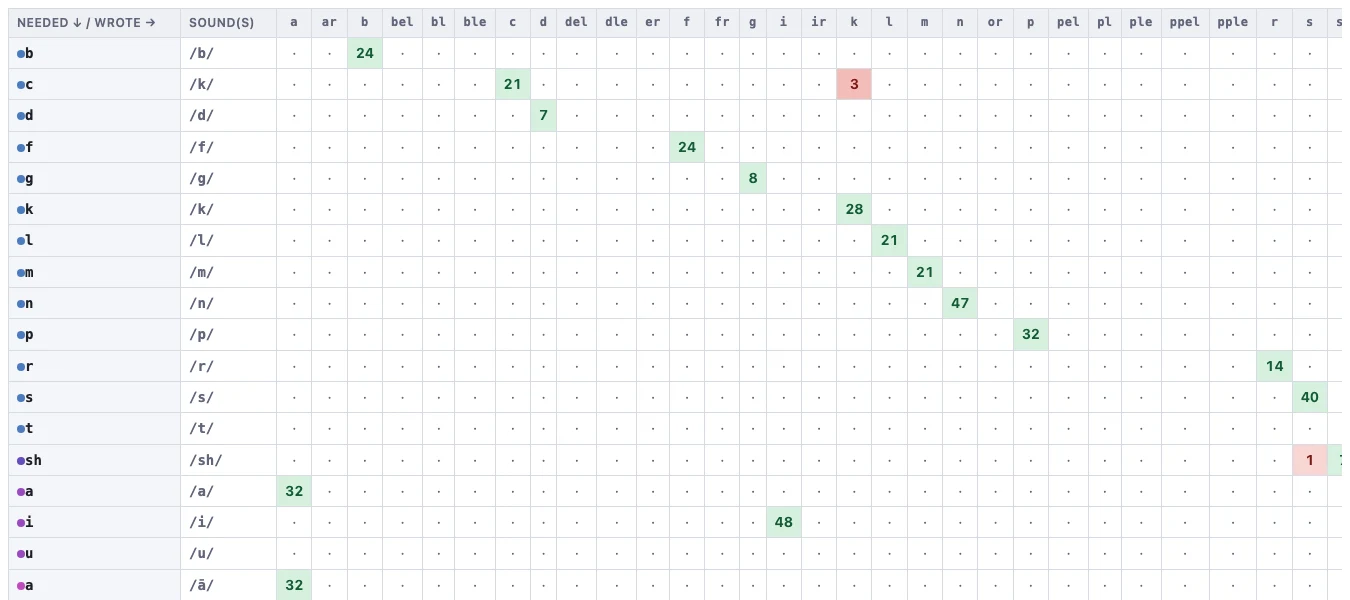
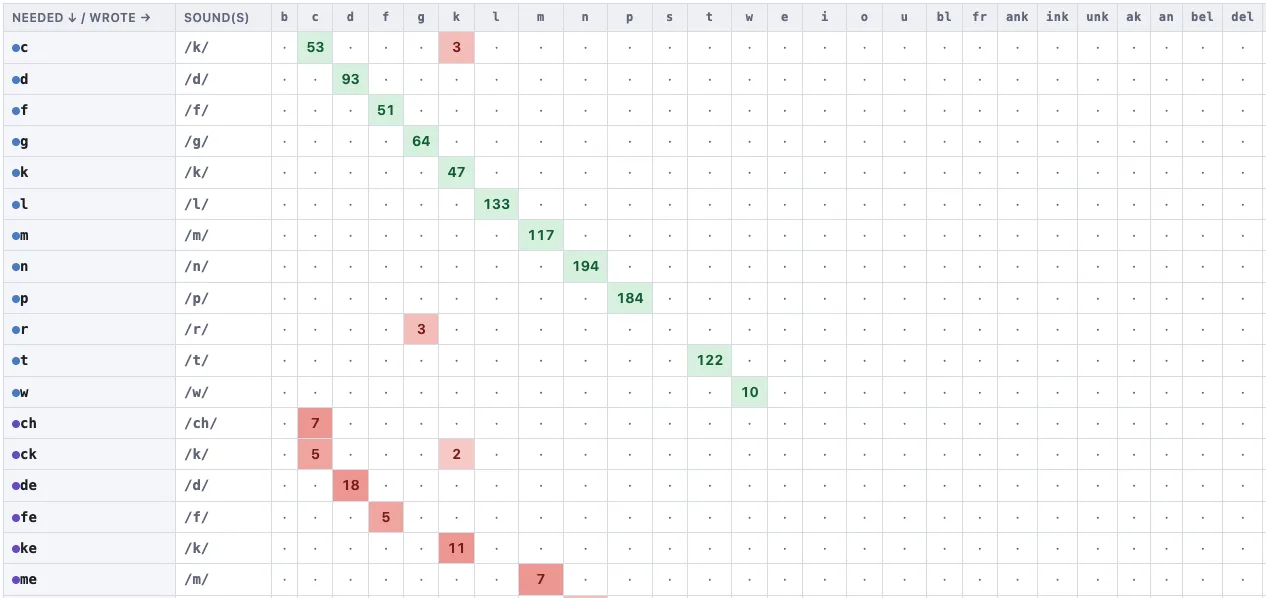
Fix the confusion sheets' axes and make the toggle work
"Hide empty rows and columns" could not hide a column. Columns were
built from the spellings students actually wrote, so a column existed
precisely because someone had written in it — the filter was provably
dead, and the control looked broken.

The same gap cost the sheet its diagonal. A target nobody spelled
correctly had no column to be correct in, and the columns that did exist
were in alphabetical order against rows in teaching order, so the
correct answers scattered instead of running down the grid. Every target
now gets a column of its own, in the row order, so a row meets its own
column.

"Empty" was also the wrong test. Almost nothing is ever empty, because a
spelling written correctly lands on the diagonal: on a term of tests
that left 71 rows by 83 columns standing with nothing hidden, when only
58 rows and 38 columns were involved in a confusion at all. The toggle
now hides rows and columns with no confusions, which is what the sheet
is for, and says so.

The phoneme confusion sheet had the same shape and the same two faults,
so it takes the same fix.

diff --git a/src/reports/confusionAxes.test.ts b/src/reports/confusionAxes.test.ts
@@ -1,0 +1,114 @@
+import { describe, expect, it } from 'vitest'
+import { confusionColumns, trimToConfusions } from './confusionAxes'
+
+const NONE = '∅'
+
+/**
+ * These exist because "hide empty rows and columns" was reported as doing
+ * nothing on the grapheme confusion sheet. It was not a broken checkbox: the
+ * columns were built from what students wrote, so a column existed exactly when
+ * someone had written in it and none could ever be empty. The same gap left
+ * targets nobody spelled correctly with no column to be correct in, so there
+ * was no complete diagonal to show.
+ */
+
+describe('building the column axis', () => {
+  it('gives every target a column, including ones nobody wrote', () => {
+    // "ck" was never written by anyone. Without a column it has no diagonal
+    // cell, and the row cannot show a correct answer even in principle.
+    const cols = confusionColumns(['ai', 'ck', 'sh'], ['ai', 'sh', 'k'], NONE)
+    expect(cols).toContain('ck')
+  })
+
+  it('orders columns to match the rows, so the diagonal runs diagonally', () => {
+    // Alphabetical columns against teaching-order rows scatter the correct
+    // answers; this is what makes them line up.
+    const cols = confusionColumns(['sh', 'ai', 'ck'], ['ai', 'ck', 'sh'], NONE)
+    expect(cols.slice(0, 3)).toEqual(['sh', 'ai', 'ck'])
+  })
+
+  it('puts spellings that were never a target after the targets', () => {
+    const cols = confusionColumns(['ai'], ['ai', 'zz'], NONE)
+    expect(cols).toEqual(['ai', 'zz', NONE])
+  })
+
+  it('keeps "nothing written" last and only once', () => {
+    const cols = confusionColumns(['ai'], [NONE, 'a', NONE], NONE)
+    expect(cols).toEqual(['ai', 'a', NONE])
+    expect(cols.filter((c) => c === NONE)).toHaveLength(1)
+  })
+
+  it('never repeats a column when a spelling is both target and written', () => {
+    const cols = confusionColumns(['ai', 'ai'], ['ai'], NONE)
+    expect(cols).toEqual(['ai', NONE])
+  })
+})
+
+describe('trimming to what was actually confused', () => {
+  /*
+   *        sh   ck   s    ∅        "sh" was written as "s" twice and left
+   *   sh    4    .   2    .        blank once; "ck" was always right; "ai"
+   *   ck    .    3   .    .        never came up at all.
+   *   ai    .    .   .    .
+   */
+  const rows = ['sh', 'ck', 'ai']
+  const cols = ['sh', 'ck', 's', NONE]
+  const counts: Record<string, Record<string, number>> = {
+    sh: { sh: 4, s: 2, [NONE]: 1 },
+    ck: { ck: 3 },
+  }
+  const count = (r: string, c: string) => counts[r]?.[c] ?? 0
+  const isDiagonal = (r: string, c: string) => r === c
+  const trim = () => trimToConfusions(rows, cols, count, isDiagonal)
+
+  it('keeps only the rows that were confused with something', () => {
+    // "ck" was spelled correctly three times and never wrongly. That is a
+    // diagonal entry, not a confusion, so the row has nothing to show.
+    expect(trim().rows).toEqual(['sh'])
+  })
+
+  it('keeps only the columns something landed in wrongly', () => {
+    // This is the regression. Counting any entry at all kept every column
+    // alive on the strength of its own diagonal, so ticking the box changed
+    // nothing and the control looked broken.
+    expect(trim().cols).toEqual(['s', NONE])
+  })
+
+  it('does not let a diagonal entry hold a row or column up', () => {
+    const allCorrect = (r: string, c: string) => (r === c ? 5 : 0)
+    const trimmed = trimToConfusions(rows, cols, allCorrect, isDiagonal)
+    expect(trimmed.rows).toEqual([])
+    expect(trimmed.cols).toEqual([])
+  })
+
+  it('counts a blank as a confusion, since writing nothing is an error', () => {
+    expect(trim().cols).toContain(NONE)
+  })
+
+  it('leaves the full axes alone, so the complete grid is still reachable', () => {
+    trim()
+    expect(rows).toEqual(['sh', 'ck', 'ai'])
+    expect(cols).toEqual(['sh', 'ck', 's', NONE])
+  })
+})
+
+describe('the two together, as the sheet uses them', () => {
+  it('shows a complete diagonal untrimmed, and only the errors trimmed', () => {
+    const targets = ['sh', 'ck', 'ai']
+    const written = ['s', 'sh', 'a']
+    const counts: Record<string, Record<string, number>> = {
+      sh: { sh: 4, s: 2 },
+      ck: { ck: 3 },
+      ai: { a: 1 },
+    }
+    const count = (r: string, c: string) => counts[r]?.[c] ?? 0
+
+    const cols = confusionColumns(targets, written, NONE)
+    // Untrimmed, every row can meet its own column: that is the diagonal.
+    for (const t of targets) expect(cols).toContain(t)
+
+    const trimmed = trimToConfusions(targets, cols, count, (r, c) => r === c)
+    expect(trimmed.rows).toEqual(['sh', 'ai'])
+    expect(trimmed.cols).toEqual(['s', 'a'])
+  })
+})

diff --git a/src/pages/ReportGraphemeConfusion.tsx b/src/pages/ReportGraphemeConfusion.tsx
@@ -4,7 +4,8 @@ import { useStore } from '../state/store'
 import { useStudentNames } from '../state/names'
 import { useSelectedTests } from '../state/useSelectedTests'
 import { TestPicker } from '../components/TestPicker'
-import { buildReportsAcross, CLASS, getGraphemeConfusion, NONE } from '../reports/aggregate'
+import { buildReportsAcross, CLASS, getGraphemeConfusion, NONE, type GraphemeRow } from '../reports/aggregate'
+import { confusionColumns, trimToConfusions } from '../reports/confusionAxes'
 import { displayList } from '../data/phonemes'
 import { category } from '../data/categories'
 import { CategoryDot } from '../components/CategoryTag'
@@ -31,16 +32,34 @@ export function ReportGraphemeConfusion() {
     [project, scope.sources],
   )
   const [who, setWho] = useState<string>(CLASS)
-  const [hideEmpty, setHideEmpty] = useState(true)
+  /** Ticked, the sheet shows only the substitutions; unticked, the whole grid. */
+  const [onlyConfusions, setOnlyConfusions] = useState(true)
   const [drill, setDrill] = useState<Drill | null>(null)
 
-  const rowTotal = (key: string) =>
-    reports.writtenSpellings.reduce((sum, s) => sum + getGraphemeConfusion(reports, who, key, s), 0)
-  const colTotal = (written: string) =>
-    reports.graphemes.reduce((sum, g) => sum + getGraphemeConfusion(reports, who, g.key, written), 0)
+  /*
+   * Every target spelling gets a column, in the row order, so each row meets
+   * its own column and the correct answers run down the diagonal. Columns used
+   * to be only what students actually wrote, which left a target nobody spelled
+   * correctly with nowhere to be correct, and meant no column could ever be
+   * empty for the toggle below to hide.
+   */
+  const allCols = useMemo(
+    () =>
+      confusionColumns(
+        reports.graphemes.map((g) => g.letters),
+        reports.writtenSpellings,
+        NONE,
+      ),
+    [reports],
+  )
 
-  const rows = hideEmpty ? reports.graphemes.filter((g) => rowTotal(g.key) > 0) : reports.graphemes
-  const cols = hideEmpty ? reports.writtenSpellings.filter((s) => colTotal(s) > 0) : reports.writtenSpellings
+  const { rows, cols } = useMemo(() => {
+    const count = (g: GraphemeRow, c: string) => getGraphemeConfusion(reports, who, g.key, c)
+    const isDiagonal = (g: GraphemeRow, c: string) => c === g.letters
+    return onlyConfusions
+      ? trimToConfusions(reports.graphemes, allCols, count, isDiagonal)
+      : { rows: reports.graphemes, cols: allCols }
+  }, [reports, allCols, onlyConfusions, who])
 
   // One label for this view, used in the heading, the file name and the printout.
   const whoName = who === CLASS ? 'Whole class' : names(who)
@@ -92,7 +111,8 @@ export function ReportGraphemeConfusion() {
       <p className="hint">
         Rows are the spelling the word needed; columns are what the student actually wrote. The
         shaded diagonal is correct. Everything off it is a specific substitution to teach against —{' '}
-        {NONE} means nothing was written for that unit at all.
+        {NONE} means nothing was written for that unit at all. Untick the box below to see every
+        spelling, right or wrong, with the correct answers running down the diagonal.
       </p>
 
       <div className="group no-print" style={{ marginBottom: 12, display: 'flex', gap: 8, flexWrap: 'wrap' }}>
@@ -108,8 +128,14 @@ export function ReportGraphemeConfusion() {
           </select>
         </label>
         <label className="check">
-          <input type="checkbox" checked={hideEmpty} onChange={(e) => setHideEmpty(e.target.checked)} />
-          Hide empty rows and columns
+          <input
+            type="checkbox"
+            checked={onlyConfusions}
+            onChange={(e) => setOnlyConfusions(e.target.checked)}
+          />
+          <span title="Unticked, every spelling gets a row and a column of its own, so the correct answers run down the diagonal">
+            Hide rows and columns with no confusions
+          </span>
         </label>
         <span className="spacer" />
         <button className="btn" onClick={exportCsv}>

diff --git a/src/reports/confusionAxes.ts b/src/reports/confusionAxes.ts
@@ -1,0 +1,76 @@
+/**
+ * The axes of a confusion matrix.
+ *
+ * A grid of targets against what was written only reads as a confusion matrix
+ * when a row can meet its own column: the correct answers then run down the
+ * diagonal, and everything off it is a substitution to teach against.
+ *
+ * That needs the column axis to carry every target, not only the ones somebody
+ * happened to write. Building it from what was written instead has two
+ * consequences, and the grapheme sheet had both: a target nobody spelled
+ * correctly has no column, so its row never meets a diagonal; and no column can
+ * ever be empty, because a column exists precisely when someone wrote in it —
+ * which quietly made "hide empty rows and columns" unable to hide a column.
+ */
+
+/**
+ * Columns for a confusion matrix: every target in row order, then anything
+ * written that was never a target, then the "nothing written" column.
+ *
+ * Row order rather than alphabetical, so a row meets its own column as the eye
+ * travels down the grid instead of the correct answers scattering.
+ *
+ * @param targets what each row was asking for, in the order the rows appear
+ * @param written what students actually produced
+ * @param none the column standing for nothing written at all
+ */
+export function confusionColumns(
+  targets: readonly string[],
+  written: readonly string[],
+  none: string,
+): string[] {
+  const cols: string[] = []
+  const seen = new Set<string>()
+
+  const add = (c: string) => {
+    // `none` is appended at the end whether or not it appears in either list;
+    // it is not a spelling, so it does not belong among them.
+    if (c === '' || c === none || seen.has(c)) return
+    seen.add(c)
+    cols.push(c)
+  }
+
+  for (const t of targets) add(t)
+  for (const w of written) add(w)
+
+  return [...cols, none]
+}
+
+/**
+ * The rows and columns that take part in at least one confusion.
+ *
+ * "Empty" is the wrong test, and testing for it is why the toggle looked
+ * broken: almost every row and column holds *something*, because a spelling
+ * that was written correctly lands on the diagonal. On a term of tests that
+ * left 71 rows by 82 columns standing with nothing hidden, when only 58 rows
+ * and 38 columns were involved in a confusion at all.
+ *
+ * The diagonal is not a confusion, so it does not keep a row or a column alive
+ * here. What is left is the substitutions — the thing the sheet is for. The
+ * complete grid, diagonal and all, is what the toggle turns back on.
+ */
+export function trimToConfusions<R>(
+  rows: readonly R[],
+  cols: readonly string[],
+  count: (row: R, col: string) => number,
+  isDiagonal: (row: R, col: string) => boolean,
+): { rows: R[]; cols: string[] } {
+  const confused = (row: R, col: string) => !isDiagonal(row, col) && count(row, col) > 0
+
+  return {
+    rows: rows.filter((r) => cols.some((c) => confused(r, c))),
+    // Measured against every row, not just the kept ones: a dropped row has no
+    // confusions anywhere, so it cannot be holding a column up.
+    cols: cols.filter((c) => rows.some((r) => confused(r, c))),
+  }
+}

diff --git a/src/pages/ReportConfusion.tsx b/src/pages/ReportConfusion.tsx
@@ -10,6 +10,7 @@ import { toCsv } from '../export/csv'
 import { useDownloads } from '../components/DownloadProvider'
 import { useFileName } from '../state/filename'
 import { OccurrenceModal } from '../components/OccurrenceModal'
+import { confusionColumns, trimToConfusions } from '../reports/confusionAxes'
 import type { Drill } from '../reports/occurrences'
 
 /**
@@ -30,19 +31,33 @@ export function ReportConfusion() {
     [project, scope.sources],
   )
   const [who, setWho] = useState<string>(CLASS)
-  const [hideEmpty, setHideEmpty] = useState(true)
+  /** Ticked, the sheet shows only the swaps; unticked, the whole grid. */
+  const [onlyConfusions, setOnlyConfusions] = useState(true)
   const [drill, setDrill] = useState<Drill | null>(null)
 
   const label = (id: string) => (id === NONE ? NONE : display(id as PhonemeId, notation))
 
   const allRows: string[] = [...reports.phonemes, NONE]
-  const allCols: string[] = [...reports.producedPhonemes, NONE]
+  // Every target sound gets a column too, not only the ones somebody produced,
+  // so a row can always meet its own column on the diagonal.
+  const allCols: string[] = useMemo(
+    () => confusionColumns(reports.phonemes, reports.producedPhonemes, NONE),
+    [reports],
+  )
 
-  const rowTotal = (r: string) => allCols.reduce((sum, c) => sum + getConfusion(reports, who, r, c), 0)
-  const colTotal = (c: string) => allRows.reduce((sum, r) => sum + getConfusion(reports, who, r, c), 0)
-
-  const rows = hideEmpty ? allRows.filter((r) => rowTotal(r) > 0) : allRows
-  const cols = hideEmpty ? allCols.filter((c) => colTotal(c) > 0) : allCols
+  const { rows, cols } = useMemo(
+    () =>
+      onlyConfusions
+        ? trimToConfusions(
+            allRows,
+            allCols,
+            (r, c) => getConfusion(reports, who, r, c),
+            (r, c) => r === c && r !== NONE,
+          )
+        : { rows: allRows, cols: allCols },
+    // eslint-disable-next-line react-hooks/exhaustive-deps
+    [reports, allCols, onlyConfusions, who],
+  )
 
   // One label for this view, used in the heading, the file name and the printout.
   const whoName = who === CLASS ? 'Whole class' : names(who)
@@ -107,8 +122,14 @@ export function ReportConfusion() {
           </select>
         </label>
         <label className="check">
-          <input type="checkbox" checked={hideEmpty} onChange={(e) => setHideEmpty(e.target.checked)} />
-          Hide empty rows and columns
+          <input
+            type="checkbox"
+            checked={onlyConfusions}
+            onChange={(e) => setOnlyConfusions(e.target.checked)}
+          />
+          <span title="Unticked, every sound gets a row and a column of its own, so the correct answers run down the diagonal">
+            Hide rows and columns with no confusions
+          </span>
         </label>
         <span className="spacer" />
         <button className="btn" onClick={exportCsv}>

diff --git a/content/help/06-grapheme-confusion.md b/content/help/06-grapheme-confusion.md
@@ -22,9 +22,21 @@ A column marked **∅** means nothing was written for that unit at all.
 So a `7` where the row is `ck` and the column is `k` reads: *seven times, a word
 needed `ck` and the student wrote `k`.* 
 
-**Hide empty rows and columns** clears out everything that never came up, which
-is worth ticking once the grid gets wide, but the correct items will no
-long show up along the diagonal, so use the green color to identify them. 
+### Two views of the same grid
+
+The tick box under the grid decides how much of it you see.
+
+**Ticked — hide rows and columns with no confusions.** Only the spellings that
+were actually mixed up with something are left. A spelling that was always
+written correctly has nothing to teach against, so it goes. This is what you
+want once a term of tests has made the grid wide: on the demo class it takes a
+71-by-83 grid down to 58 by 38.
+
+**Unticked.** Every spelling gets a row *and* a column of its own, in the same
+order, so the correct answers run down the green diagonal and you can see what
+went right alongside what went wrong.
+
+![The full grid. Every spelling has its own column, so the correct counts run down the green diagonal](images/confusion-diagonal.webp)
 
 The **Showing** dropdown switches between the whole class and any individual.
 

diff --git a/content/help/09-phoneme-confusion.md b/content/help/09-phoneme-confusion.md
@@ -27,6 +27,9 @@ that is quietly costing them marks across every test.
 
 ## The usual controls
 
+- **Hide rows and columns with no confusions** leaves only the sounds that were
+  actually swapped. Untick it to see every sound with a row and a column of its
+  own, which is the view where the correct answers run down the green diagonal.
 - The **test picker** at the top pools the count across any tests you select. 
 - **Click any number** to open the examples behind it.
 - **Download CSV** and **Print / Save PDF** work as they do everywhere else.
